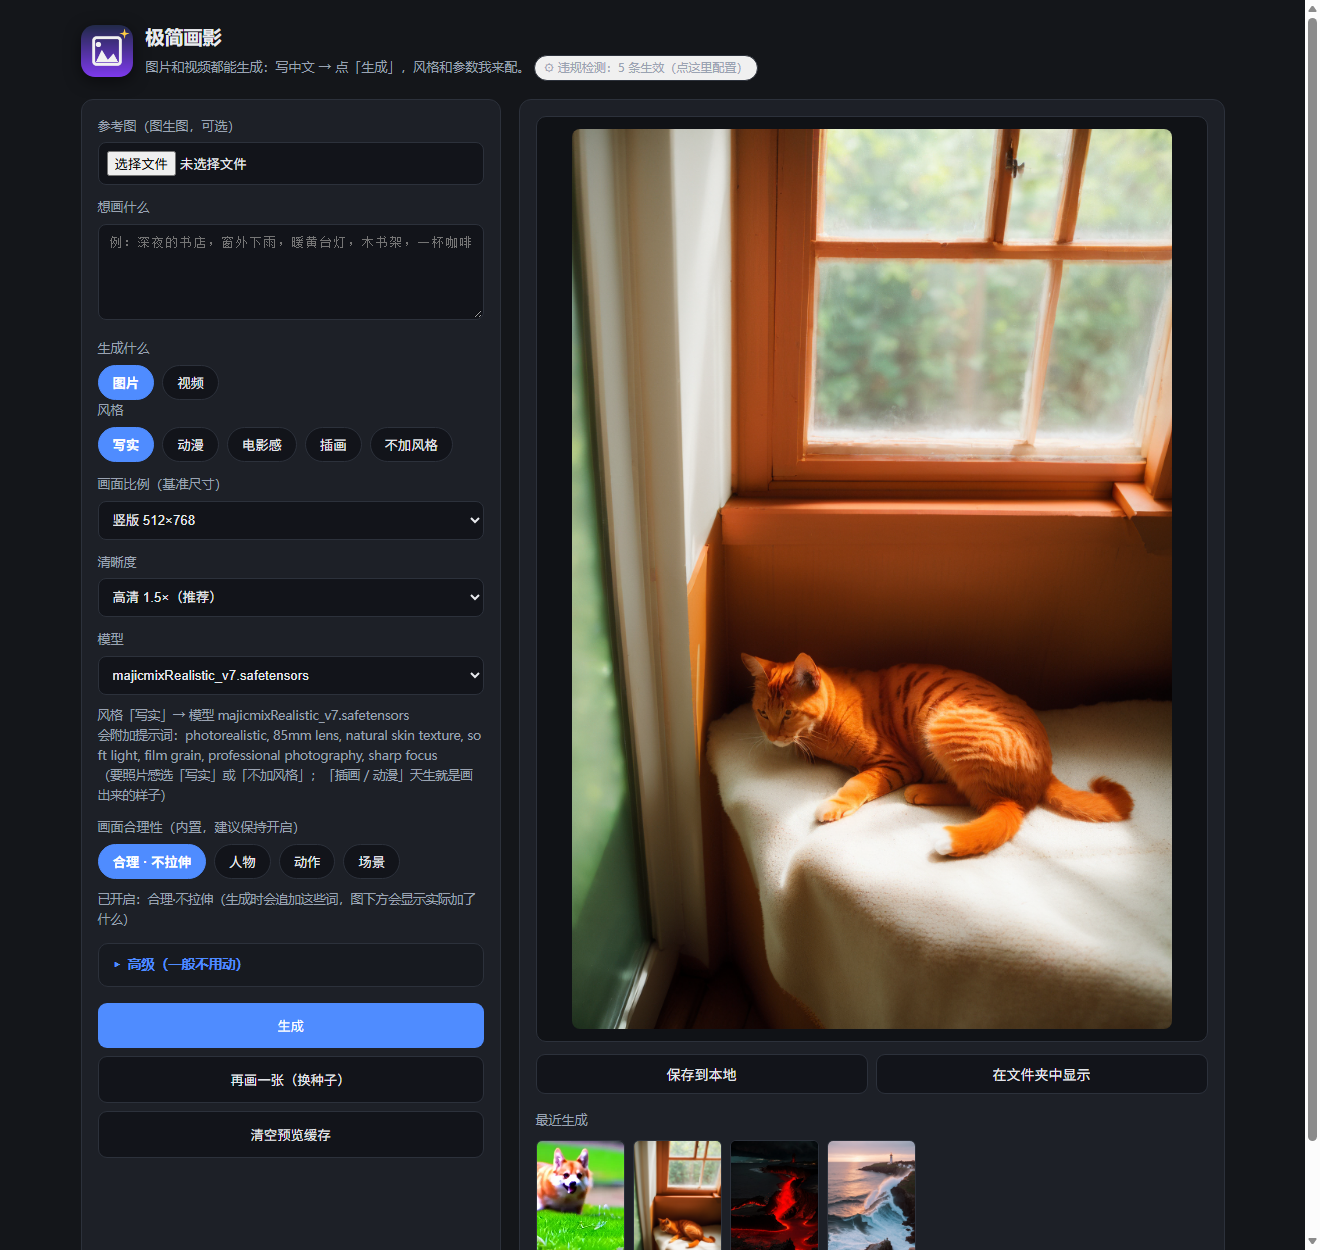
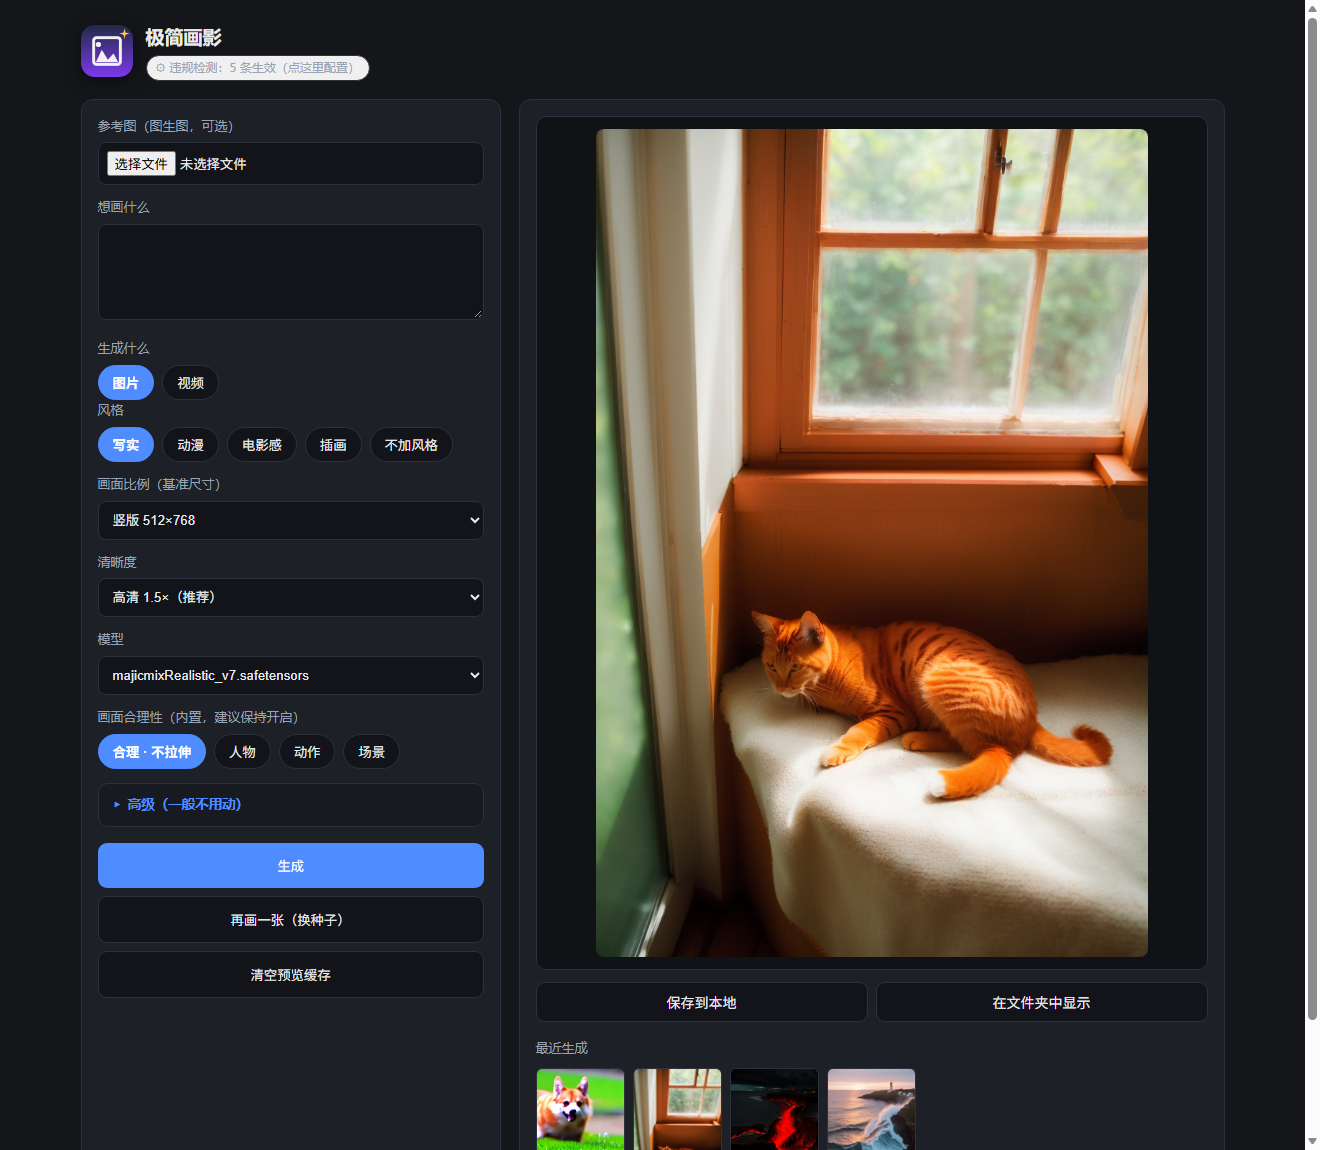
界面文字精简：去掉说明段落，信息移入悬停提示
- 删除所有静态说明段落（重绘幅度/控制方式/扩图/视频/规则等灰字提示）、副标题文案、
  文字框示例占位符，以及两处动态提示容器（JS 侧本就有 if 保护）
- 关键说明改挂 title 悬停提示：重绘幅度 / 控制方式 / 扩图 / 补幅 / 缩小原图 /
  画面合理性 / 清晰度 / 视频尺寸 / 视频时长（共 9 处），信息不丢
- 生成结果由多行说明收成一行（尺寸 · 种子 · 耗时），
  完整详情（模型、高清倍率、模式、内置提示词、实际送出的提示词、漏词）移入该行的悬停提示
- 同步更新 README 界面截图

diff --git a/index.html b/index.html
@@ -97,8 +97,7 @@
     <img src="/logo.png" alt="">
     <div>
       <h1>极简画影</h1>
-      <div class="sub">图片和视频都能生成：写中文 → 点「生成」，风格和参数我来配。
-        <button class="tag" id="modTagBtn" title="点击配置违规检测规则">⚙ 违规检测</button></div>
+      <div class="sub"><button class="tag" id="modTagBtn" title="点击配置违规检测规则">⚙ 违规检测</button></div>
     </div>
   </div>
 
@@ -114,16 +113,14 @@
         <div class="row" style="margin-top:8px">
           <div>
             <label style="margin-top:0">重绘幅度 <span id="dnVal" style="color:var(--fg)">0.55</span></label>
-            <input type="range" id="denoise" min="0.15" max="0.9" step="0.05" value="0.55" style="width:100%">
+            <input type="range" id="denoise" title="重绘幅度：越小越贴近原图（保画风 0.3-0.45），越大改动越多（换风格 0.6-0.8）" min="0.15" max="0.9" step="0.05" value="0.55" style="width:100%">
           </div>
           <div style="display:flex;align-items:flex-end">
             <button class="go ghost" id="clearImg" style="margin-top:0">去掉参考图</button>
           </div>
         </div>
-        <div class="meta">幅度越小越贴近原图（保画风用 0.3-0.45），越大改动越多（换风格用 0.6-0.8）</div>
-
         <label>控制方式（锁构图换内容）</label>
-        <select id="control">
+        <select id="control" title="用参考图当结构草图重新画：构图保留、内容和光线按提示词换；不选则是传统图生图（光影很难改）">
           <option value="" selected>不用 —— 传统图生图（保留原图光影）</option>
           <option value="canny">边缘 Canny —— 保线条轮廓</option>
           <option value="depth">深度 Depth —— 保空间结构</option>
@@ -133,13 +130,10 @@
         </select>
         <label>控制强度 <span id="cnVal" style="color:var(--fg)">1.0</span></label>
         <input type="range" id="cnStrength" min="0.2" max="1.6" step="0.1" value="1" style="width:100%">
-        <div class="meta">选了控制方式 = 用参考图当「结构草图」重新画 —— 构图保留、内容和光线按提示词换；
-        不选 = 传统图生图（越像越保留原图，光影很难改）。<br>
-        深度/姿态/线稿首次使用会下预处理器权重（走镜像），第一次会慢一点。</div>
         </div>
 
         <label>扩图 / 补全（在画面外补内容）</label>
-        <select id="outpaint">
+        <select id="outpaint" title="在画面外补内容。原图那块不会被改动，只在外面生成新内容；提示词要描述你想补出来的东西">
           <option value="" selected>不用</option>
           <option value="down">向下补 —— 半身补全身（补腿、脚）</option>
           <option value="up">向上补 —— 补头顶、天空</option>
@@ -147,25 +141,19 @@
           <option value="all">四周补 —— 整体扩大画布</option>
         </select>
         <label>补多少</label>
-        <select id="opAmount">
+        <select id="opAmount" title="小=补一点（补脚/头顶）；大=尽量多补（半身补全身用这个）">
           <option value="small">小 —— 补一点（补脚、补头顶、扩一点背景）</option>
           <option value="mid" selected>中 —— 补半屏</option>
           <option value="large">大 —— 尽量多补（补全身试这个）</option>
         </select>
         <label style="display:flex;align-items:center;gap:8px;margin-top:12px;color:var(--fg)">
-          <input type="checkbox" id="opShrink" style="width:auto">
+          <input type="checkbox" id="opShrink" title="缩小原图腾空间：半身补全身请勾上，人物会变小但全身比例才正常" style="width:auto">
           <span>缩小原图腾空间（<b>半身补全身请勾上</b>：人物会变小，但全身比例才正常）</span>
         </label>
-        <div class="meta">用「原图 + 掩码」补：<b>原图那块不会被改动</b>，只在外面生成新内容。
-        已挂扩图专用 inpaint ControlNet，接缝 / 光照 / 背景会延续原图。<br>
-        <b>实测结论（512×768 半身图 → 画布 512×1280）</b>：<br>
-        ・不勾「缩小」：接缝干净，但腿被压扁、脚出不来（人物占满画布，没空间了）<br>
-        ・<b>勾上「缩小」：完整全身（牛仔裤 + 球鞋），接缝看不出，背景连贯</b> ← 补全身用这个<br>
-        提示词请把<b>要补的东西 + 整体</b>都写上（例：全身照，牛仔裤，双腿，白色运动鞋，站在水泥地面上，写实摄影）。</div>
-      </div>
+        </div>
 
       <label>想画什么</label>
-      <textarea id="prompt" placeholder="例：深夜的书店，窗外下雨，暖黄台灯，木书架，一杯咖啡"></textarea>
+      <textarea id="prompt"></textarea>
 
       <label>生成什么</label>
       <div class="styles" id="modes">
@@ -186,7 +174,7 @@
       </select>
 
       <label>清晰度</label>
-      <select id="hires">
+      <select id="hires" title="两遍画法：先按基准尺寸画，再放大重绘一遍。别直接拉高分辨率，SD1.5 会构图涣散">
         <option value="none">标准（最快，512 级别）</option>
         <option value="1.5" selected>高清 1.5×（推荐）</option>
         <option value="2">高清 2×（最清晰，慢）</option>
@@ -194,28 +182,26 @@
 
       <label>模型</label>
       <select id="model"></select>
-      <div class="meta" id="styleHint"></div>
 
       <label>画面合理性（内置，建议保持开启）</label>
-      <div class="styles" id="qbits">
+      <div class="styles" id="qbits" title="内置合理性提示词：追加构图/比例/解剖相关的词，并强化负面词，让画面不拉伸、更协调">
         <button data-q="quality" class="on">合理 · 不拉伸</button>
         <button data-q="person">人物</button>
         <button data-q="action">动作</button>
         <button data-q="scene">场景</button>
       </div>
-      <div class="meta" id="qHint"></div>
       </div>
 
       <div id="vidOnly" style="display:none">
         <label>视频尺寸</label>
-        <select id="vsize">
+        <select id="vsize" title="视频尺寸。720p 在 12GB 显存上有风险">
           <option value="480p_landscape" selected>横版 832×480</option>
           <option value="480p_portrait">竖版 480×832</option>
           <option value="480p_square">方形 640×640</option>
           <option value="720p_landscape">高清横版 1280×704（慢，可能爆显存）</option>
         </select>
         <label>时长</label>
-        <select id="seconds">
+        <select id="seconds" title="视频时长。帧数按 4n+1 规则取整，所以实际秒数会略短于档位">
           <option value="2" selected>2 秒档（45 帧 / 1.88 秒）</option>
           <option value="3">3 秒档（69 帧 / 2.88 秒）</option>
           <option value="5">5 秒档（117 帧 / 4.88 秒，慢）</option>
@@ -226,14 +212,12 @@
           <option value="10">10 步（快，质量降）</option>
           <option value="30">30 步（慢，质量升）</option>
         </select>
-        <div class="meta">Wan2.2 5B：写了提示词就是文生视频；放了参考图就用它当**首帧**（图生视频）。<br>
-        参数跟官方模板一致：uni_pc / simple / CFG 5 / shift 8 / 24fps。</div>
-      </div>
+        </div>
 
       <details class="box">
         <summary>高级（一般不用动）</summary>
         <label>负面词</label>
-        <textarea id="negative" style="min-height:60px" placeholder="留空则用默认质量底线"></textarea>
+        <textarea id="negative" style="min-height:60px"></textarea>
         <div class="row">
           <div><label>步数</label><input type="number" id="steps" value="24" min="8" max="60"></div>
           <div><label>CFG</label><input type="number" id="cfg" value="7" step="0.5" min="1" max="20"></div>
@@ -278,12 +262,8 @@
         <button class="go" id="btnSaveRules">保存规则</button>
       </div>
       <div class="status" id="rulesOut"></div>
-      <div class="meta">规则文件：<span id="rulesFile"></span><br>
-        也可以直接用记事本改它，存盘后下一次请求自动生效，不用重启。<br>
-        出图链路：① 检测 → ② 翻译 → ③ 组装 → ④ 提交 ComfyUI，不通过到不了 ComfyUI。</div>
-
       <label style="margin-top:14px">检测自测（不产图，只看会不会被拦）</label>
-      <textarea id="probe" style="min-height:64px" placeholder="随便写点东西，看看会不会命中规则"></textarea>
+      <textarea id="probe" style="min-height:64px"></textarea>
       <button class="go ghost" id="btnProbe" style="margin-top:8px">试一下</button>
       <div class="status" id="probeOut"></div>
     </div>
@@ -440,37 +420,41 @@ async function draw() {
       setStatus((r.blocked ? '<b>已拦截：</b>' : '<b>失败：</b>') + (r.error || '未知错误'), true);
       return;
     }
-    let meta, out;
+    let summary, detail = '', out;
     if (r.mode === 'video') {
       out = (r.videos && r.videos.length) ? r.videos[0] : (r.images && r.images[0]);
-      meta = '视频 · ' + r.vsize + ' · ' + r.frames + ' 帧 / ' + r.seconds + ' 秒 · 24fps · 种子 ' +
-             r.seed + ' · 耗时 ' + r.elapsed + ' 秒';
+      summary = r.vsize + ' · ' + r.frames + ' 帧 / ' + r.seconds + ' 秒 · 种子 ' + r.seed +
+                ' · ' + r.elapsed + ' 秒';
     } else {
       out = (r.images && r.images.length) ? r.images[0] : (r.videos && r.videos[0]);
-      meta = '模型 ' + r.checkpoint + ' · 输出 ' + (r.outSize || r.size) + ' · 种子 ' + r.seed +
-             ' · 耗时 ' + r.elapsed + ' 秒' +
-             ((r.images && r.images.length > 1) ? ' · 共 ' + r.images.length + ' 张' : '');
-      if (r.hires && r.hires !== 'none') meta += '\n高清 ' + r.hires + '×（基准 ' + r.size + ' → 放大重绘第二遍）';
-      if (r.imgMode === 'i2i') meta += '\n图生图：重绘幅度 ' + r.denoise + '（参考图 ' + r.initImage + '）';
+      summary = (r.outSize || r.size) + ' · 种子 ' + r.seed + ' · ' + r.elapsed + ' 秒' +
+                ((r.images && r.images.length > 1) ? ' · ' + r.images.length + ' 张' : '');
+      detail += '模型：' + r.checkpoint + '\n';
+      if (r.hires && r.hires !== 'none') {
+        detail += '高清 ' + r.hires + '×（基准 ' + r.size + '，放大重绘第二遍）\n';
+      }
+      if (r.imgMode === 'i2i') detail += '图生图：重绘幅度 ' + r.denoise + '（参考图 ' + r.initImage + '）\n';
       if (r.imgMode === 'outpaint') {
         const dn = { down: '向下补', up: '向上补', lr: '左右补', all: '四周补' }[r.outpaint] || r.outpaint;
-        meta += '\n扩图（' + dn + '）：补完画布 ' + r.outpaintCanvas + '，原图区域保持未改动';
+        detail += '扩图（' + dn + '）：补完画布 ' + r.outpaintCanvas + '，原图区域未改动\n';
       }
-      if (r.imgMode === 'controlnet') meta += '\nControlNet「' + r.control + '」强度 ' + r.controlStrength +
-        '：参考图只当结构草图，画面是重新画的';
-      if (r.aspectFixed) meta += '\n⚠ 已按参考图比例把出图尺寸改成 ' + r.size + '（不改的话结构会被拉伸）';
+      if (r.imgMode === 'controlnet') {
+        detail += 'ControlNet「' + r.control + '」强度 ' + r.controlStrength + '\n';
+      }
+      if (r.aspectFixed) detail += '已按参考图比例把出图尺寸改成 ' + r.size + '\n';
       if (r.applied && r.applied.length) {
-        meta += '\n内置提示词（追加到你的提示词后面）：\n  ' + r.applied.join('\n  ');
+        detail += '内置提示词：\n  ' + r.applied.join('\n  ') + '\n';
       }
     }
     if (r.translated) {
-      const via = r.engine === 'google' ? '（Google 翻译）' : (r.engine === 'dict' ? '（本地词库）' : '');
-      meta += '\n实际送出的提示词' + via + '：' + r.translated;
+      const via = r.engine === 'google' ? 'Google 翻译' : (r.engine === 'dict' ? '本地词库' : '');
+      detail += '实际送出的提示词' + (via ? '（' + via + '）' : '') + '：\n  ' + r.translated + '\n';
     }
     if (r.engine === 'dict' && r.dropped && r.dropped.length) {
-      meta += '\n词库里没有、未参与出图的中文：' + r.dropped.join('、');
+      detail += '词库里没有、未参与出图的中文：' + r.dropped.join('、') + '\n';
     }
-    showImage(out, meta);
+    showImage(out, summary);
+    if ($('meta')) $('meta').title = detail.trim();
     setStatus('完成，耗时 ' + r.elapsed + ' 秒');
     $('seed').value = 0;
     loadState();
